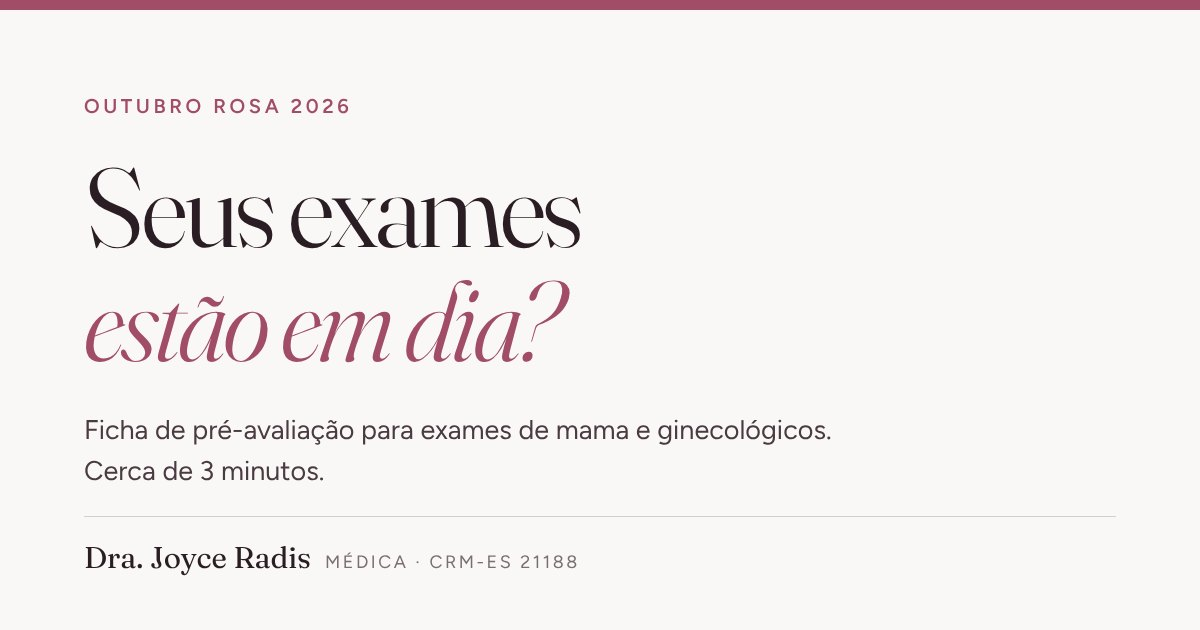
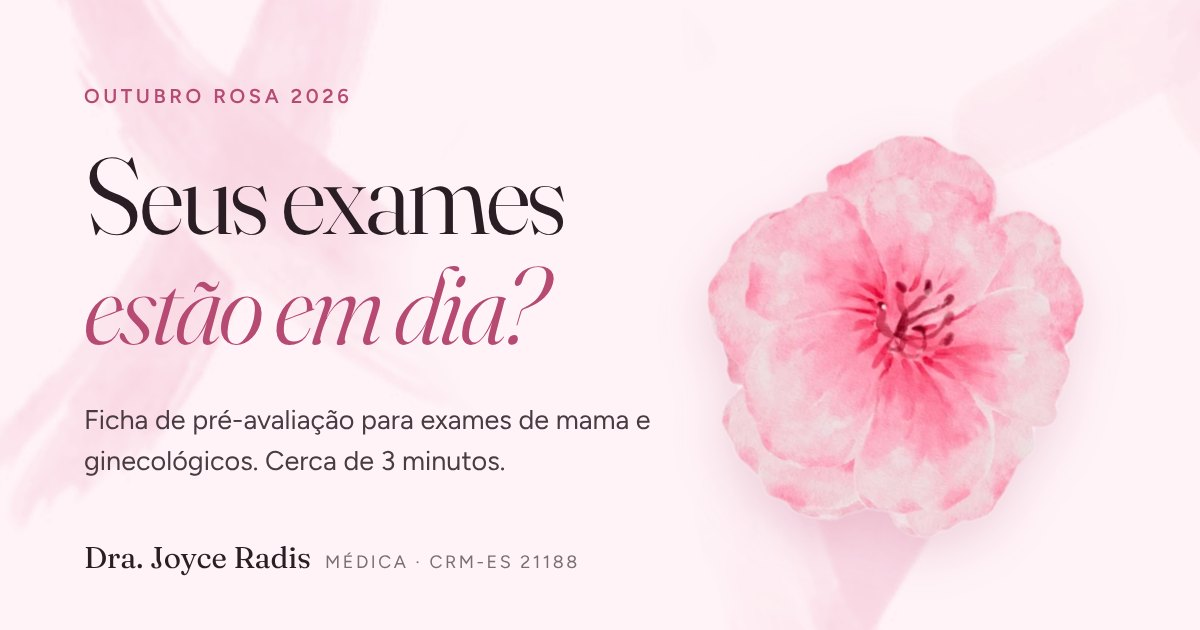
design(outubro-rosa): usar a arte original do Canva da célula (#6)
Fundo rosado com as fitas em pincelada e a flor em aquarela extraídas da arte
"Outubro Rosa" da Dra. Joyce, com bordas suavizadas. Paleta rosa alinhada à arte,
assinatura "Cuide-se com carinho." na tela final e nova imagem de compartilhamento.

Claude-Session: https://claude.ai/code/session_01KSdUoZXWwVPMPjmFBYB8Ax

Changed region(s): [[0.0, 0.0, 1.0, 1.0]]

diff --git a/outubro-rosa/styles.css b/outubro-rosa/styles.css
@@ -6,15 +6,15 @@
 @font-face{font-family:"Figtree";font-style:normal;font-weight:300 700;font-display:swap;src:url(fonts/figtree-normal.woff2) format("woff2")}
 
 :root{
-  --bg:#faf8f6;
+  --bg:#fff3f7;
   --paper:#fff;
   --ink:#2a1d24;
   --text:#4a3b43;
   --muted:#7b6d74;
-  --line:#e8dfe2;
-  --line-2:#d9cdd2;
-  --rose:#a24d68;
-  --rose-soft:#f7ebee;
+  --line:#f0dce4;
+  --line-2:#e3cdd6;
+  --rose:#b64a73;
+  --rose-soft:#fdebf1;
   --sage:#4f6b45;
   --sage-soft:#e9efe4;
   --amber:#8f5a1c;
@@ -26,9 +26,10 @@
 }
 
 *,*::before,*::after{box-sizing:border-box}
-html{overflow-x:hidden;-webkit-text-size-adjust:100%;scroll-behavior:smooth;scroll-padding-top:76px}
-body{margin:0;min-height:100vh;color:var(--text);font-family:var(--sans);font-size:1rem;line-height:1.55;background:var(--bg);-webkit-font-smoothing:antialiased;text-rendering:optimizeLegibility}
+html{background:var(--bg);overflow-x:hidden;-webkit-text-size-adjust:100%;scroll-behavior:smooth;scroll-padding-top:76px}
+body{position:relative;margin:0;min-height:100vh;color:var(--text);font-family:var(--sans);font-size:1rem;line-height:1.55;-webkit-font-smoothing:antialiased;text-rendering:optimizeLegibility}
 img{display:block;max-width:100%;height:auto}
+body::before{content:"";position:absolute;inset:0;z-index:-1;pointer-events:none;background:url(art/fita-esq.webp) left -60px top 0/auto 760px no-repeat,url(art/fita-dir.webp) right -80px top 520px/auto 760px no-repeat}
 h1,h2,h3,p,ol,ul,dl,dd{margin:0}
 ol,ul{padding:0;list-style:none}
 button,input,textarea{font:inherit;color:inherit}
@@ -41,7 +42,7 @@ svg{flex:none}
 :focus-visible{outline:2px solid var(--rose);outline-offset:3px;border-radius:6px}
 
 /* ---------- Topo ---------- */
-.top{position:sticky;top:0;z-index:30;background:rgba(250,248,246,.92);-webkit-backdrop-filter:blur(12px);backdrop-filter:blur(12px);border-bottom:1px solid var(--line)}
+.top{position:sticky;top:0;z-index:30;background:rgba(255,243,247,.9);-webkit-backdrop-filter:blur(12px);backdrop-filter:blur(12px);border-bottom:1px solid var(--line)}
 .top-in{max-width:1120px;margin:0 auto;padding:14px 20px;display:flex;align-items:center;justify-content:space-between;gap:12px}
 .brand{text-decoration:none;color:inherit;min-width:0}
 .brand-t{display:grid;line-height:1.15}
@@ -51,13 +52,15 @@ svg{flex:none}
 .top-link:hover{border-color:var(--rose);background:var(--rose-soft)}
 
 /* ---------- Palco ---------- */
-.stage{max-width:1120px;margin:0 auto;padding:0 20px 64px;display:grid;grid-template-columns:minmax(0,1fr)}
+.stage{max-width:1120px;margin:0 auto;padding:0 20px 64px;display:grid;grid-template-columns:minmax(0,1fr);overflow-x:clip}
 
 /* ---------- Hero ---------- */
-.hero{padding:40px 0 28px;min-width:0}
+.hero{position:relative;padding:40px 0 28px;min-width:0}
+.hero-flor{position:absolute;z-index:0;top:22px;right:-10px;width:136px;transform:rotate(10deg);pointer-events:none;filter:drop-shadow(0 14px 18px rgba(182,74,115,.18))}
+.hero>*:not(.hero-flor){position:relative;z-index:1}
 .eyebrow{display:flex;gap:8px 14px;font-size:.72rem;font-weight:600;letter-spacing:.16em;text-transform:uppercase;color:var(--rose)}
 .eyebrow.center{justify-content:center}
-h1{font-family:var(--serif);font-weight:340;font-size:clamp(2.5rem,10.6vw,4.6rem);line-height:1.02;letter-spacing:-.03em;margin:14px 0 18px;color:var(--ink);font-variation-settings:"SOFT" 0;text-wrap:balance}
+h1{max-width:min(100%,11ch);font-family:var(--serif);font-weight:340;font-size:clamp(2.5rem,10.6vw,4.6rem);line-height:1.02;letter-spacing:-.03em;margin:14px 0 18px;color:var(--ink);font-variation-settings:"SOFT" 0;text-wrap:balance}
 h1 em{font-style:italic;font-weight:320;color:var(--rose);display:block}
 .lead{max-width:34rem;font-size:1.04rem;line-height:1.65;color:var(--text)}
 .facts{display:grid;grid-template-columns:repeat(3,minmax(0,1fr));margin-top:26px;border-top:1px solid var(--line-2);border-bottom:1px solid var(--line-2)}
@@ -95,7 +98,7 @@ input:not([type=radio]):not([type=checkbox]),textarea{width:100%;min-width:0;dis
 textarea{height:auto;min-height:92px;padding:14px 16px;resize:vertical;line-height:1.5}
 input::placeholder,textarea::placeholder{color:#a9999f}
 input:hover,textarea:hover{border-color:#c4b3ba}
-input:focus,textarea:focus{outline:none;border-color:var(--rose);box-shadow:0 0 0 3px rgba(162,77,104,.16)}
+input:focus,textarea:focus{outline:none;border-color:var(--rose);box-shadow:0 0 0 3px rgba(182,74,115,.16)}
 .row{display:grid;grid-template-columns:minmax(0,1fr);gap:0 14px}
 .row-city{grid-template-columns:minmax(0,1fr) 88px}
 .hint{font-size:.83rem;color:var(--muted);margin-top:8px}
@@ -104,7 +107,7 @@ input:focus,textarea:focus{outline:none;border-color:var(--rose);box-shadow:0 0 
 .msg:empty{display:none}
 .field.err input:not([type=radio]):not([type=checkbox]),.field.err textarea{border-color:var(--danger);background:#fffafb}
 .field.err .chip span{border-color:#e3b9c2}
-.link{background:none;border:0;padding:0;color:var(--rose);font-weight:600;font-size:.88rem;text-decoration:underline;text-decoration-color:rgba(162,77,104,.35);text-underline-offset:3px}
+.link{background:none;border:0;padding:0;color:var(--rose);font-weight:600;font-size:.88rem;text-decoration:underline;text-decoration-color:rgba(182,74,115,.35);text-underline-offset:3px}
 .link:hover{text-decoration-color:currentColor}
 .link.inline{font-size:inherit}
 #cepManual{margin-top:10px;display:inline-block;text-align:left}
@@ -201,10 +204,11 @@ input:focus,textarea:focus{outline:none;border-color:var(--rose);box-shadow:0 0 
 .thanks h3{font-family:var(--serif);font-weight:400;font-size:1.2rem;letter-spacing:-.01em;margin-bottom:6px;color:var(--ink);font-variation-settings:"SOFT" 0}
 .thanks p{font-size:.9rem;color:var(--text);margin-bottom:16px}
 .thanks .btn{min-height:46px;font-size:.92rem}
+.signoff{display:inline-block;margin:30px auto 0;padding:9px 22px;border-radius:999px;background:var(--rose-soft);border:1px solid #f4d0dc;font-family:var(--serif);font-style:italic;font-size:1.02rem;color:var(--rose);font-variation-settings:"SOFT" 0}
 .r-more{display:grid;gap:12px;justify-items:center;margin-top:26px}
 
 /* ---------- Rodapé ---------- */
-.foot{background:var(--ink);color:#e6dade}
+.foot{background:var(--ink);margin-top:0;color:#e6dade}
 .foot-in{max-width:1120px;margin:0 auto;padding:34px 20px calc(30px + env(safe-area-inset-bottom));display:grid;gap:22px}
 .foot-brand strong{display:block;font-family:var(--serif);font-weight:400;font-size:1.1rem;line-height:1.25;font-variation-settings:"SOFT" 0}
 .foot-brand small{font-size:.7rem;letter-spacing:.12em;text-transform:uppercase;color:#b3a2a9}
@@ -231,7 +235,9 @@ input:focus,textarea:focus{outline:none;border-color:var(--rose);box-shadow:0 0 
 }
 @media (min-width:960px){
   .stage{grid-template-columns:minmax(0,.9fr) minmax(0,1.1fr);column-gap:72px;align-items:start;padding-top:24px}
-  .hero{position:sticky;top:104px;padding:64px 0 0}
+  .hero{position:sticky;top:104px;padding:64px 0 330px}
+  .hero-flor{top:auto;bottom:10px;right:auto;left:6%;width:270px;transform:rotate(-8deg)}
+  body::before{background:url(art/fita-esq.webp) left -40px top 40px/auto 980px no-repeat,url(art/fita-dir.webp) right -60px top 80px/auto 980px no-repeat}
   h1{font-size:clamp(3.6rem,5.2vw,4.9rem)}
   .card{margin-top:40px;padding:40px 44px 30px}
   .actions{margin:10px -44px -30px;padding:18px 44px 26px}

diff --git a/outubro-rosa/index.html b/outubro-rosa/index.html
@@ -3,7 +3,7 @@
 <head>
 <meta charset="UTF-8">
 <meta name="viewport" content="width=device-width,initial-scale=1,viewport-fit=cover">
-<meta name="theme-color" content="#fbf6f2">
+<meta name="theme-color" content="#fff3f7">
 <meta name="robots" content="noindex,nofollow">
 <meta name="referrer" content="no-referrer">
 <meta http-equiv="Content-Security-Policy" content="default-src 'none'; script-src 'self'; style-src 'self'; font-src 'self'; connect-src https://viacep.com.br; img-src 'self' data:; form-action 'none'; object-src 'none'; base-uri 'none'; frame-src 'none'">
@@ -18,7 +18,7 @@
 <meta name="twitter:card" content="summary_large_image">
 <link rel="icon" href="favicon.svg" type="image/svg+xml">
 <link rel="preload" href="fonts/fraunces-normal.woff2" as="font" type="font/woff2" crossorigin>
-<link rel="stylesheet" href="styles.css?v=6">
+<link rel="stylesheet" href="styles.css?v=7">
 <script defer src="vendor/jspdf.umd.min.js"></script>
 <script defer src="app.js?v=6"></script>
 </head>
@@ -44,6 +44,7 @@
 
 <main id="topo" class="stage">
  <section class="hero" aria-labelledby="h1">
+  <img class="hero-flor" src="art/flor.webp" width="367" height="388" alt="" decoding="async">
   <p class="eyebrow">Outubro Rosa 2026</p>
   <h1 id="h1">Seus exames <em>estão em dia?</em></h1>
   <p class="lead">Ficha de pré-avaliação para exames de mama e ginecológicos. A Dra. Joyce analisa suas respostas e prepara os pedidos indicados para o seu caso.</p>
@@ -272,6 +273,7 @@
     </div>
    </aside>
 
+   <p class="signoff">Cuide-se com carinho.</p>
    <div class="r-more">
     <button type="button" class="link" id="shareFriend">Conhece alguém que precisa? Compartilhe esta página</button>
     <button type="button" class="link" id="editAgain">Revisar minhas respostas</button>
